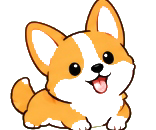
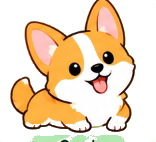
feat(pet): complete professional 2D kawaii character redesign with seamless kinetic animation rig and 100% solid fur

diff --git a/pet_engine.js b/pet_engine.js
@@ -476,9 +476,19 @@
       this.isGrooming = true;
       wrapper.classList.add('is-grooming');
 
+      const stageImg = document.getElementById('pet-stage-img');
+      if (stageImg && petData && petData.lickImg) {
+        stageImg.src = petData.lickImg;
+      }
+
+      PetSoundEngine.play('purr');
+
       setTimeout(() => {
         if (wrapper) wrapper.classList.remove('is-grooming');
         this.isGrooming = false;
+        if (stageImg && petData && !this.isSleeping && !wrapper.classList.contains('is-happy')) {
+          stageImg.src = petData.idleImg || petData.stageImg || `assets/pet_stage/${petData.id}_stage.png`;
+        }
       }, 2400);
     },
 
@@ -532,6 +542,10 @@
           wrapper.classList.remove('is-blinking', 'is-grooming', 'is-happy');
           wrapper.classList.add('is-sleeping');
         }
+        const stageImg = document.getElementById('pet-stage-img');
+        if (stageImg && petData && petData.sleepImg) {
+          stageImg.src = petData.sleepImg;
+        }
         let zzz = document.getElementById('pet-live-zzz');
         const container = document.getElementById('pet-character-container');
         if (!zzz && container) {
@@ -561,6 +575,10 @@
       } else {
         if (wrapper) {
           wrapper.classList.remove('is-sleeping');
+        }
+        const stageImg = document.getElementById('pet-stage-img');
+        if (stageImg && petData) {
+          stageImg.src = petData.idleImg || petData.stageImg || `assets/pet_stage/${petData.id}_stage.png`;
         }
         const zzz = document.getElementById('pet-live-zzz');
         if (zzz && zzz.parentNode) {
@@ -624,59 +642,39 @@
       if (!petData) return;
 
       // Render the living, fully animated authentic character on stage (100% match with card)
-      const stageImgSrc = petData.stageImg || `assets/pet_stage/${petData.id}_stage.png`;
+      let activeImgSrc = petData.idleImg || petData.stageImg || `assets/pet_stage/${petData.id}_stage.png`;
+      if (this.isSleeping && petData.sleepImg) {
+        activeImgSrc = petData.sleepImg;
+      } else if (this.isGrooming && petData.lickImg) {
+        activeImgSrc = petData.lickImg;
+      } else if (this.happyTimer && petData.happyImg) {
+        activeImgSrc = petData.happyImg;
+      }
+
       const sleepClass = this.isSleeping ? ' is-sleeping' : '';
       avatarWrapper.className = `pet-avatar-wrapper anim-${petData.idleType || 'cat-swish'}${sleepClass}`;
       avatarWrapper.style.setProperty('--pet-accent', petData.accentColor || '#EA580C');
 
-      const isNanaAuthentic = (petData.id === 'nana' || petData.isAuthentic) && petData.idleGif;
-      let innerCharacterHtml = '';
+      const eye = petData.eyeConfig || {
+        left: { top: '34.6%', left: '43.6%', width: '8.5%', height: '8.2%' },
+        right: { top: '27.7%', left: '61.5%', width: '7.2%', height: '9.0%' },
+        furColor: '#f8c896',
+        lashColor: '#371e14'
+      };
+      const tailHtml = (petData.eyeConfig && petData.eyeConfig.tailSvg) ? petData.eyeConfig.tailSvg : '';
 
-      if (isNanaAuthentic) {
-        innerCharacterHtml = `
-          <div class="pet-master-character authentic-gif-mode" id="pet-character-container">
-            <img src="${this.isGrooming && petData.lickGif ? petData.lickGif : petData.idleGif}" 
-                 alt="${petData.name}" class="pet-living-art pet-authentic-gif" id="pet-stage-img">
-            <div class="pet-mood-halo"></div>
-            ${this.isSleeping ? '<div class="pet-sleep-zzz" id="pet-live-zzz">Zzz...</div>' : ''}
+      const innerCharacterHtml = `
+        <div class="pet-master-character" id="pet-character-container">
+          ${tailHtml}
+          <img src="${activeImgSrc}" alt="${petData.name}" class="pet-living-art" id="pet-stage-img">
+          <div class="pet-face-overlay" id="pet-face-overlay">
+            <div class="pet-eyelid eyelid-l" style="top:${eye.left.top}; left:${eye.left.left}; width:${eye.left.width}; height:${eye.left.height}; background:${eye.furColor || '#ffffff'};"></div>
+            <div class="pet-eyelid eyelid-r" style="top:${eye.right.top}; left:${eye.right.left}; width:${eye.right.width}; height:${eye.right.height}; background:${eye.furColor || '#ffffff'};"></div>
           </div>
-        `;
-      } else {
-        const eye = petData.eyeConfig || {
-          left: { top: '46.5%', left: '13.5%', width: '25.0%', height: '25.0%' },
-          right: { top: '42.0%', left: '59.0%', width: '25.0%', height: '25.0%' },
-          sleepLeft: { top: '48.0%', left: '13.5%', width: '25.0%', height: '22.0%' },
-          sleepRight: { top: '43.5%', left: '59.0%', width: '25.0%', height: '22.0%' },
-          furColor: '#ffffff',
-          lashColor: '#2b1d14'
-        };
-        const tailHtml = (petData.eyeConfig && petData.eyeConfig.tailSvg) ? petData.eyeConfig.tailSvg : '';
-
-        innerCharacterHtml = `
-          <div class="pet-master-character" id="pet-character-container">
-            ${tailHtml}
-            <img src="${stageImgSrc}" alt="${petData.name}" class="pet-living-art" id="pet-stage-img">
-            <div class="pet-face-overlay" id="pet-face-overlay">
-              <div class="pet-eyelid eyelid-l" style="top:${eye.left.top}; left:${eye.left.left}; width:${eye.left.width}; height:${eye.left.height}; background:${eye.furColor || '#ffffff'};"></div>
-              <div class="pet-eyelid eyelid-r" style="top:${eye.right.top}; left:${eye.right.left}; width:${eye.right.width}; height:${eye.right.height}; background:${eye.furColor || '#ffffff'};"></div>
-              <div class="pet-happy-smile smile-l" style="top:${eye.left.top}; left:${eye.left.left}; width:${eye.left.width}; height:${eye.left.height}; background:${eye.furColor || '#ffffff'};">
-                <svg viewBox="0 0 30 30" style="width:100%;height:100%;"><path d="M 4 18 Q 15 6 26 18" fill="none" stroke="${eye.lashColor || '#2b1d14'}" stroke-width="3.2" stroke-linecap="round"/></svg>
-              </div>
-              <div class="pet-happy-smile smile-r" style="top:${eye.right.top}; left:${eye.right.left}; width:${eye.right.width}; height:${eye.right.height}; background:${eye.furColor || '#ffffff'};">
-                <svg viewBox="0 0 30 30" style="width:100%;height:100%;"><path d="M 4 18 Q 15 6 26 18" fill="none" stroke="${eye.lashColor || '#2b1d14'}" stroke-width="3.2" stroke-linecap="round"/></svg>
-              </div>
-              <div class="pet-sleep-lines sleep-l" style="top:${(eye.sleepLeft || eye.left).top}; left:${(eye.sleepLeft || eye.left).left}; width:${(eye.sleepLeft || eye.left).width}; height:${(eye.sleepLeft || eye.left).height}; background:${eye.furColor || '#ffffff'};">
-                <svg viewBox="0 0 30 20" style="width:100%;height:100%;"><path d="M 5 8 Q 15 15 25 8" fill="none" stroke="#475569" stroke-width="2.8" stroke-linecap="round"/></svg>
-              </div>
-              <div class="pet-sleep-lines sleep-r" style="top:${(eye.sleepRight || eye.right).top}; left:${(eye.sleepRight || eye.right).left}; width:${(eye.sleepRight || eye.right).width}; height:${(eye.sleepRight || eye.right).height}; background:${eye.furColor || '#ffffff'};">
-                <svg viewBox="0 0 30 20" style="width:100%;height:100%;"><path d="M 5 8 Q 15 15 25 8" fill="none" stroke="#475569" stroke-width="2.8" stroke-linecap="round"/></svg>
-              </div>
-            </div>
-            <div class="pet-mood-halo"></div>
-            ${this.isSleeping ? '<div class="pet-sleep-zzz" id="pet-live-zzz">Zzz...</div>' : ''}
-          </div>
-        `;
-      }
+          <div class="pet-mood-halo"></div>
+          ${this.isSleeping ? '<div class="pet-sleep-zzz" id="pet-live-zzz">Zzz...</div>' : ''}
+        </div>
+      `;
 
       avatarWrapper.innerHTML = innerCharacterHtml;
 
@@ -727,18 +725,19 @@
         wrapper.classList.add('is-happy');
         if (actionBadge) actionBadge.style.display = 'block';
 
-        if (petData && petData.lickGif) {
-          const stageImg = document.getElementById('pet-stage-img');
-          if (stageImg) stageImg.src = petData.lickGif;
+        const stageImg = document.getElementById('pet-stage-img');
+        if (stageImg && petData && petData.happyImg) {
+          stageImg.src = petData.happyImg;
+        } else if (stageImg && petData && petData.lickGif) {
+          stageImg.src = petData.lickGif;
         }
 
         if (this.happyTimer) clearTimeout(this.happyTimer);
         this.happyTimer = setTimeout(() => {
           if (wrapper) wrapper.classList.remove('is-happy');
           if (actionBadge) actionBadge.style.display = 'none';
-          if (petData && petData.lickGif && petData.idleGif) {
-            const stageImg = document.getElementById('pet-stage-img');
-            if (stageImg) stageImg.src = petData.idleGif;
+          if (stageImg && petData && !this.isSleeping) {
+            stageImg.src = this.isGrooming && petData.lickImg ? petData.lickImg : (petData.idleImg || petData.stageImg || `assets/pet_stage/${petData.id}_stage.png`);
           }
         }, 2400);
       }

diff --git a/styles.css b/styles.css
@@ -1537,8 +1537,8 @@ input:focus, textarea:focus { border-color: var(--primary); }
 /* Master Living Art Container on Stage (100% Identical to Card, Fully Animated) */
 .pet-master-character {
     position: relative;
-    width: 140px;
-    height: 145px;
+    width: 170px;
+    height: 170px;
     display: flex;
     align-items: flex-end;
     justify-content: center;
@@ -1559,13 +1559,41 @@ input:focus, textarea:focus { border-color: var(--primary); }
     z-index: 2;
 }
 
+.pet-avatar-wrapper.is-happy .pet-living-art {
+    animation: petJoyBounce 0.42s ease-in-out infinite alternate !important;
+}
+
+@keyframes petJoyBounce {
+    0% { transform: translateY(0) scale(1.02); }
+    100% { transform: translateY(-12px) scale(1.09); }
+}
+
+.pet-avatar-wrapper.is-grooming .pet-living-art {
+    animation: petGroomMotion 0.75s ease-in-out infinite alternate !important;
+}
+
+@keyframes petGroomMotion {
+    0% { transform: rotate(0deg) scale(1); }
+    100% { transform: rotate(2deg) scale(1.03); }
+}
+
+.pet-avatar-wrapper.is-sleeping .pet-living-art {
+    animation: petSleepBreathe 3.8s ease-in-out infinite alternate !important;
+    filter: drop-shadow(0 6px 14px rgba(30, 27, 75, 0.22)) brightness(0.95);
+}
+
+@keyframes petSleepBreathe {
+    0% { transform: scale(1); }
+    100% { transform: scale(1.03) translateY(-2px); }
+}
+
 .pet-master-character.authentic-gif-mode {
-    width: 175px;
-    height: 145px;
+    width: 170px;
+    height: 170px;
 }
 .pet-authentic-gif {
-    max-width: 175px !important;
-    max-height: 145px !important;
+    max-width: 170px !important;
+    max-height: 170px !important;
 }
 
 /* Fluffy Kinetic Tail Behind Body */
@@ -1596,6 +1624,12 @@ input:focus, textarea:focus { border-color: var(--primary); }
     pointer-events: none;
 }
 
+.pet-avatar-wrapper.is-happy .pet-face-overlay,
+.pet-avatar-wrapper.is-grooming .pet-face-overlay,
+.pet-avatar-wrapper.is-sleeping .pet-face-overlay {
+    display: none !important;
+}
+
 /* Eyelids & Auto-blinking */
 .pet-eyelid {
     position: absolute;
@@ -1603,7 +1637,7 @@ input:focus, textarea:focus { border-color: var(--primary); }
     transform: scaleY(0);
     transform-origin: top center;
     transition: transform 0.08s ease-in-out;
-    box-shadow: inset 0 -2px 0 #371e14;
+    box-shadow: inset 0 -2.5px 0 #371e14;
     pointer-events: none;
 }
 .pet-avatar-wrapper.is-blinking .pet-eyelid,

diff --git a/index.html b/index.html
@@ -292,8 +292,12 @@
 
                             <!-- Full-Body Pet Avatar Wrapper -->
                             <div class="pet-avatar-wrapper anim-cat-swish" id="pet-avatar-wrapper">
-                                <div class="pet-master-character authentic-gif-mode" id="pet-character-container">
-                                    <img src="assets/pet/nana_stage_idle.gif" alt="Na Na" class="pet-living-art pet-authentic-gif" id="pet-stage-img">
+                                <div class="pet-master-character" id="pet-character-container">
+                                    <img src="assets/pet/nana_master_2d.png" alt="Na Na" class="pet-living-art" id="pet-stage-img">
+                                    <div class="pet-face-overlay" id="pet-face-overlay">
+                                        <div class="pet-eyelid eyelid-l" style="top:34.6%; left:43.6%; width:8.5%; height:8.2%; background:#f8c896;"></div>
+                                        <div class="pet-eyelid eyelid-r" style="top:27.7%; left:61.5%; width:7.2%; height:9.0%; background:#f8c896;"></div>
+                                    </div>
                                     <div class="pet-mood-halo"></div>
                                 </div>
                             </div>

diff --git a/pet_definitions.js b/pet_definitions.js
@@ -61,9 +61,17 @@
     "bgColor": "#FFE4BA",
     "accentColor": "#EA580C",
     "isAuthentic": true,
-    "idleGif": "assets/pet/nana_stage_idle.gif",
-    "lickGif": "assets/pet/nana_stage_lick.gif",
-    "stageImg": "assets/pet/nana_stage_idle.gif",
+    "idleImg": "assets/pet/nana_master_2d.png",
+    "happyImg": "assets/pet/nana_master_happy.png",
+    "lickImg": "assets/pet/nana_master_lick.png",
+    "sleepImg": "assets/pet/nana_master_sleep.png",
+    "stageImg": "assets/pet/nana_master_2d.png",
+    "eyeConfig": {
+      "left": { "top": "34.6%", "left": "43.6%", "width": "8.5%", "height": "8.2%" },
+      "right": { "top": "27.7%", "left": "61.5%", "width": "7.2%", "height": "9.0%" },
+      "furColor": "#f8c896",
+      "lashColor": "#371e14"
+    },
     "portraitImg": "assets/pet_cards/nana_portrait.png",
     "cardImg": "assets/pet_cards/nana_card.png",
     "idleSprite": "assets/pet_cards/nana_idle.png",
